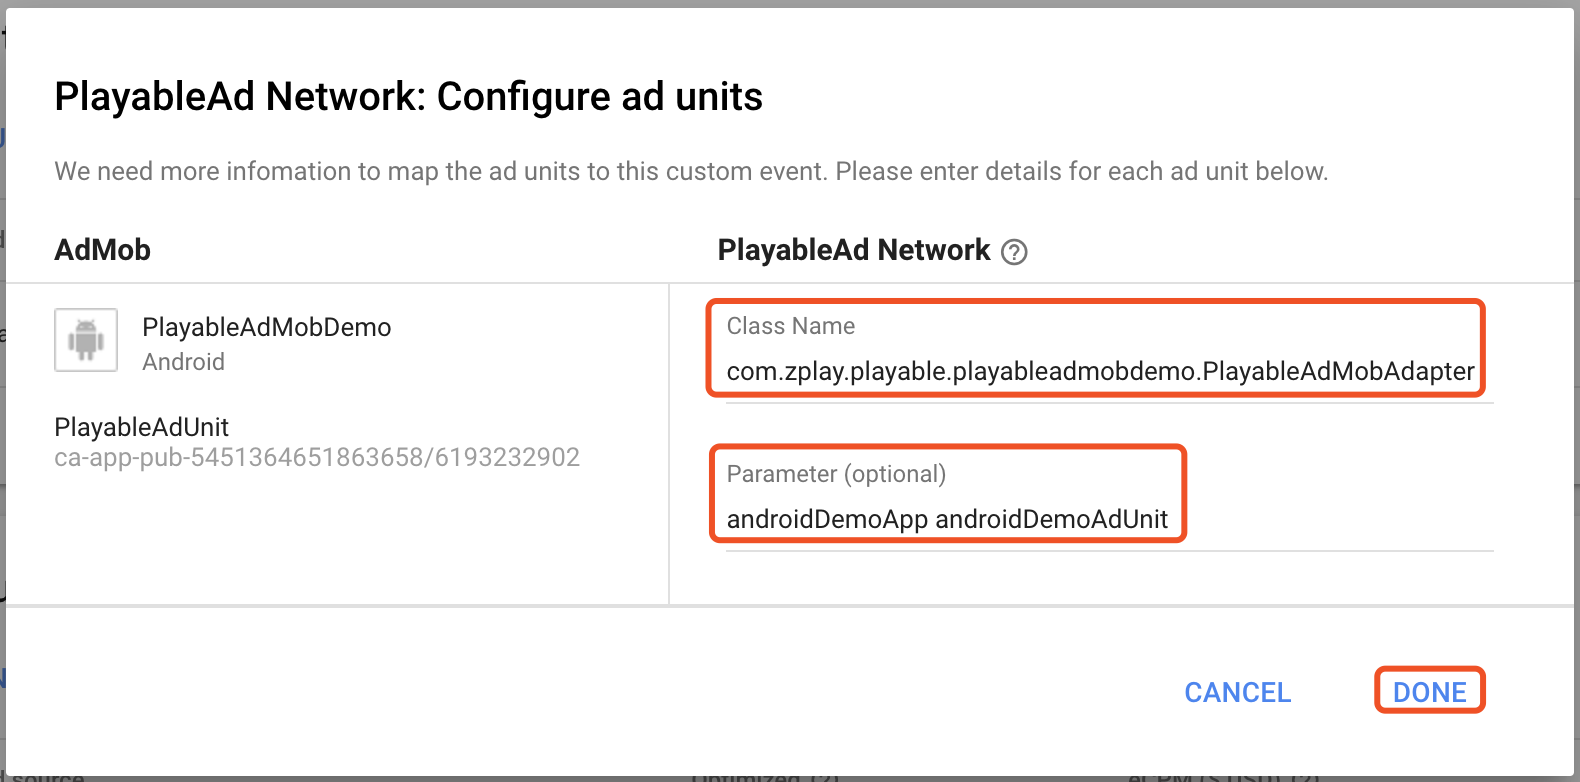
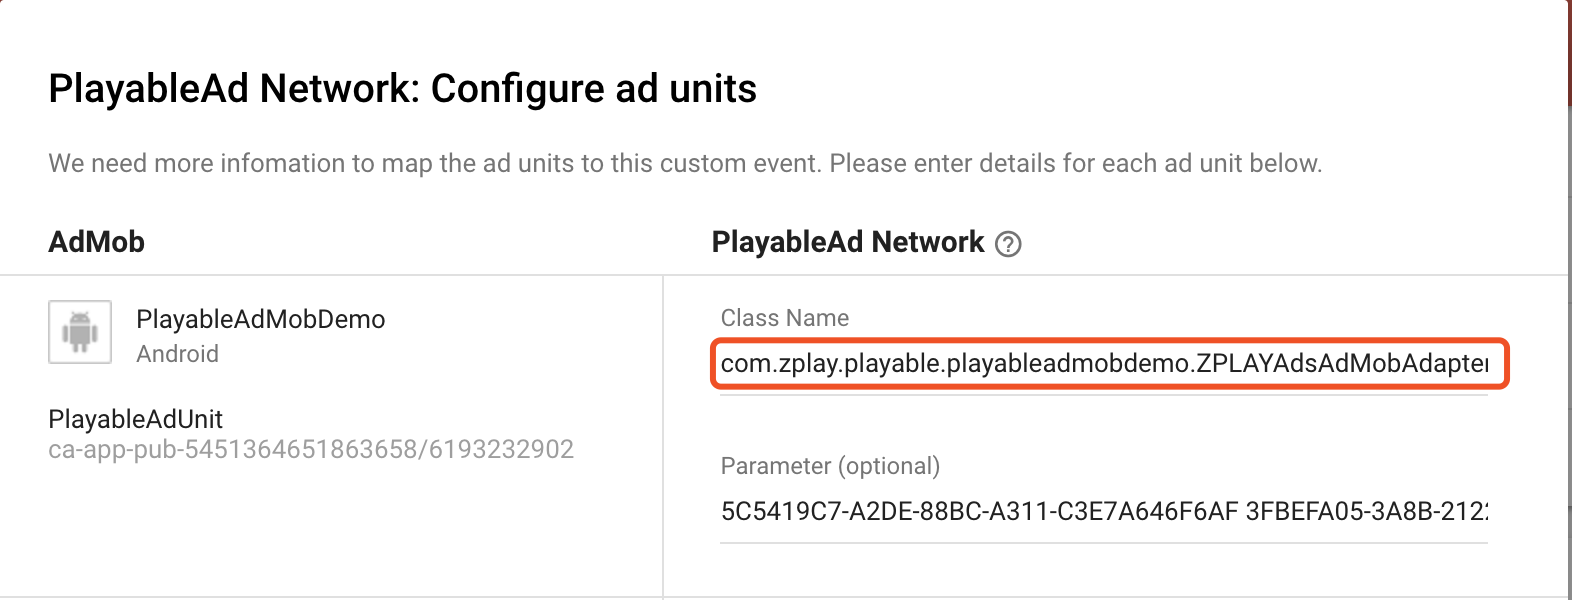
更新适配器类名与相关文档

Changed region(s): [[0.0, 0.0, 1.0, 1.0], [0.9975, 0.84, 1.0, 0.87], [0.9975, 0.6, 1.0, 0.63]]

diff --git a/app/src/main/java/com/zplay/playable/playableadmobdemo/ZPLAYAdsAdMobAdapter.java b/app/src/main/java/com/zplay/playable/playableadmobdemo/ZPLAYAdsAdMobAdapter.java
@@ -18,8 +18,8 @@ import com.playableads.SimplePlayLoadingListener;
  */
 
 @SuppressWarnings("unused")
-public class PlayableAdMobAdapter implements MediationRewardedVideoAdAdapter {
-    private static final String TAG = "PlayableAdMobAdapter";
+public class ZPLAYAdsAdMobAdapter implements MediationRewardedVideoAdAdapter {
+    private static final String TAG = "ZPLAYAdsAdMobAdapter";
     private String paAppId;
     private String paAdUnitId;
     private PlayableAds pAd;
@@ -32,7 +32,7 @@ public class PlayableAdMobAdapter implements MediationRewardedVideoAdAdapter {
         pAd.setAutoLoadAd(false);
         pAd.enableAutoRequestPermissions(true);
         mRewardedVideoEventForwarder = mediationRewardedVideoAdListener;
-        mRewardedVideoEventForwarder.onInitializationSucceeded(PlayableAdMobAdapter.this);
+        mRewardedVideoEventForwarder.onInitializationSucceeded(ZPLAYAdsAdMobAdapter.this);
     }
 
     @Override
@@ -45,12 +45,12 @@ public class PlayableAdMobAdapter implements MediationRewardedVideoAdAdapter {
         pAd.requestPlayableAds(paAdUnitId, new PlayPreloadingListener() {
             @Override
             public void onLoadFinished() {
-                mRewardedVideoEventForwarder.onAdLoaded(PlayableAdMobAdapter.this);
+                mRewardedVideoEventForwarder.onAdLoaded(ZPLAYAdsAdMobAdapter.this);
             }
 
             @Override
             public void onLoadFailed(int i, String s) {
-                mRewardedVideoEventForwarder.onAdFailedToLoad(PlayableAdMobAdapter.this, 0);
+                mRewardedVideoEventForwarder.onAdFailedToLoad(ZPLAYAdsAdMobAdapter.this, 0);
             }
         });
     }
@@ -58,24 +58,24 @@ public class PlayableAdMobAdapter implements MediationRewardedVideoAdAdapter {
     @Override
     public void showVideo() {
         if (pAd.canPresentAd(paAdUnitId)) {
-            mRewardedVideoEventForwarder.onAdOpened(PlayableAdMobAdapter.this);
+            mRewardedVideoEventForwarder.onAdOpened(ZPLAYAdsAdMobAdapter.this);
             pAd.presentPlayableAD(paAdUnitId, new SimplePlayLoadingListener() {
                 public void playableAdsIncentive() {
-                    mRewardedVideoEventForwarder.onRewarded(PlayableAdMobAdapter.this, null);
+                    mRewardedVideoEventForwarder.onRewarded(ZPLAYAdsAdMobAdapter.this, null);
                 }
 
                 public void onAdsError(int var1, String var2) {
-                    mRewardedVideoEventForwarder.onAdFailedToLoad(PlayableAdMobAdapter.this, 0);
+                    mRewardedVideoEventForwarder.onAdFailedToLoad(ZPLAYAdsAdMobAdapter.this, 0);
                 }
 
                 @Override
                 public void onVideoStart() {
-                    mRewardedVideoEventForwarder.onVideoStarted(PlayableAdMobAdapter.this);
+                    mRewardedVideoEventForwarder.onVideoStarted(ZPLAYAdsAdMobAdapter.this);
                 }
 
                 @Override
                 public void onAdClosed() {
-                    mRewardedVideoEventForwarder.onAdClosed(PlayableAdMobAdapter.this);
+                    mRewardedVideoEventForwarder.onAdClosed(ZPLAYAdsAdMobAdapter.this);
                 }
             });
         }

diff --git a/README-CN.md b/README-CN.md
@@ -1,4 +1,4 @@
-前提：中国大陆用户请注意，满足手机装有Google Play并且可访问Google官网（翻墙）后才能接入Admob广告，不然会一直提示网络错误。
+前提：中国大陆用户请注意，满足手机装有Google Play并且可访问Google官网（翻墙）后才能接入Admob广告，不然可能会提示网络错误。
 
 ## 一 接入ZPLAY Ads SDK和AdMob SDK
 以Android Studio为例，其它平台请查看ZPLAY Ads接入文档及AdMob SDK接入文档，以下简要步骤
@@ -6,24 +6,24 @@
 在app Module下添加
 ```
 dependencies {
-compile 'com.playableads:playableads:2.0.2'
+    compile 'com.playableads:playableads:2.0.3'
 }
 ```
 ### 2. 添加AdMob广告SDK依赖
 a. 在project构建文件(gradle)中的allprojects.repositories结点添加以下代码
 ```
 maven {
-url "https://maven.google.com"
+    url "https://maven.google.com"
 }
 ```
 使其看起来像：
 ```
 allprojects {
-repositories {     
-maven {
-url "https://maven.google.com"
-}
-}
+    repositories {     
+        maven {
+            url "https://maven.google.com"
+        }
+    }
 }
 ```
 b. 在app Module下添加
@@ -61,7 +61,7 @@ c. 添加适配类信息，以便传递ZPLAY Ads应用ID和广告位ID
 ![img](imgs/image12.png)
 d. 添加广告源名称，此处以Playable Network为例，可根据需求自定义
 ![img](imgs/image13.png)
-e. 添加适配类以及ZPLAY Ads应用ID（如androidDemoApp）和广告位ID（如androidDemoAdUnit），适配类在目录三中介绍。
+e. 添加适配类以及ZPLAY Ads应用ID（如5C5419C7-A2DE-88BC-A311-C3E7A646F6AF）和广告位ID（如3FBEFA05-3A8B-2122-24C7-A87D0BC9FEEC），适配类在目录三中介绍。
 ![img](imgs/image14.png)
 
 注：您在测试中可使用如下ID进行测试，测试ID不会产生收益，应用上线时请使用您申请的正式id。
@@ -82,10 +82,10 @@ c. 点击“ADD AD UNITS”将广告位添加ZPLAY Ads广告源
 ![img](imgs/image18.png)
 d. 选择已有的激励视频广告位，点击“CONTINUE”，进行适配类设置
 ![img](imgs/image19.png)
-e. 设置适配类，根据实际情况进行填写，点击“DONE”完成广告源配置
-![img](imgs/image20.png)
-f. 保存
+e. 设置适配类，根据实际情况进行填写，与步骤2-e类似
+
+f. 配制完成如图所示
 ![img](imgs/image21.png)
 g. 此时，OldRewardedUnit的三方广告源为1，广告源添加完成
 ![img](imgs/image22.png)
-## 三 适配类与请求请参考DEMO
+## 三 [适配类](./app/src/main/java/com/zplay/playable/playableadmobdemo/MainActivity.java)与请求请参考[DEMO](https://github.com/zplayads/PlayableAdMobDemo-android)
